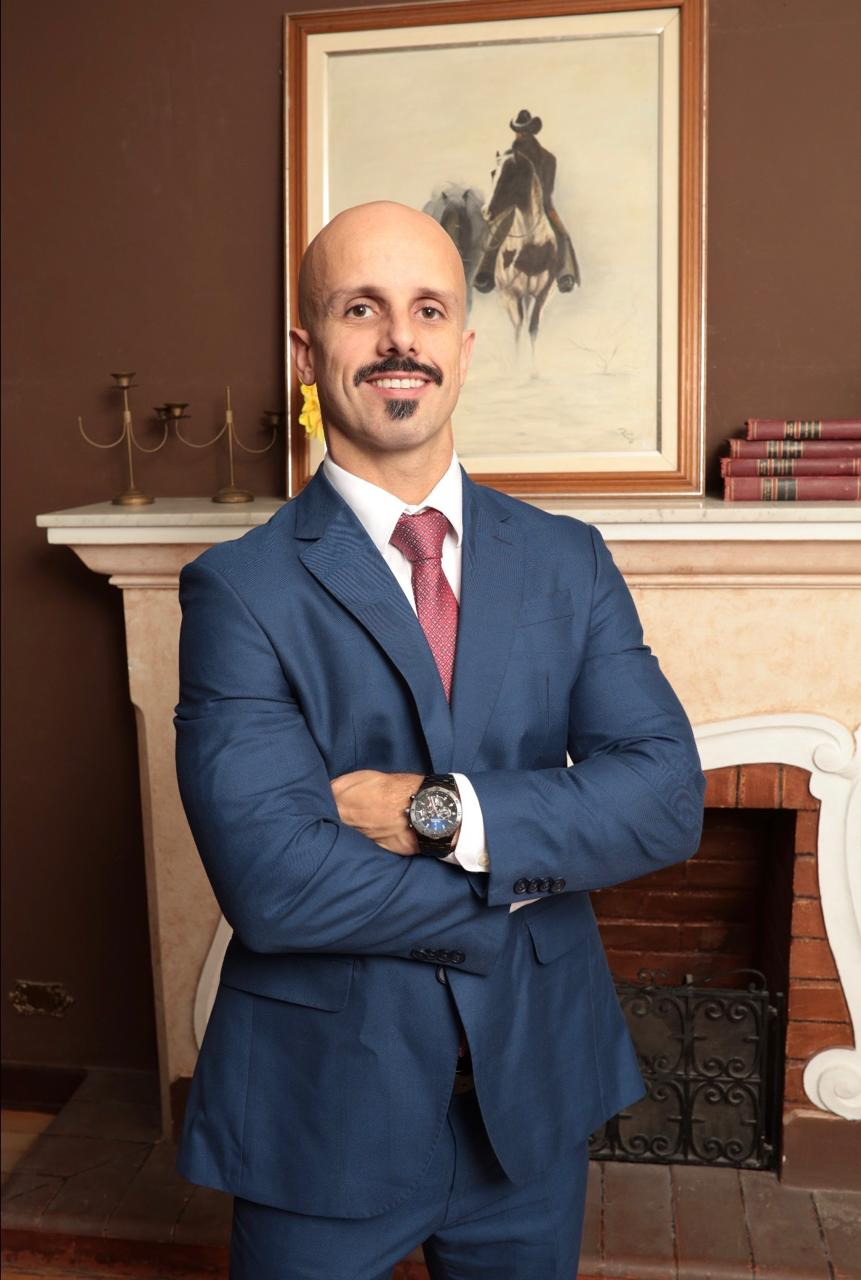
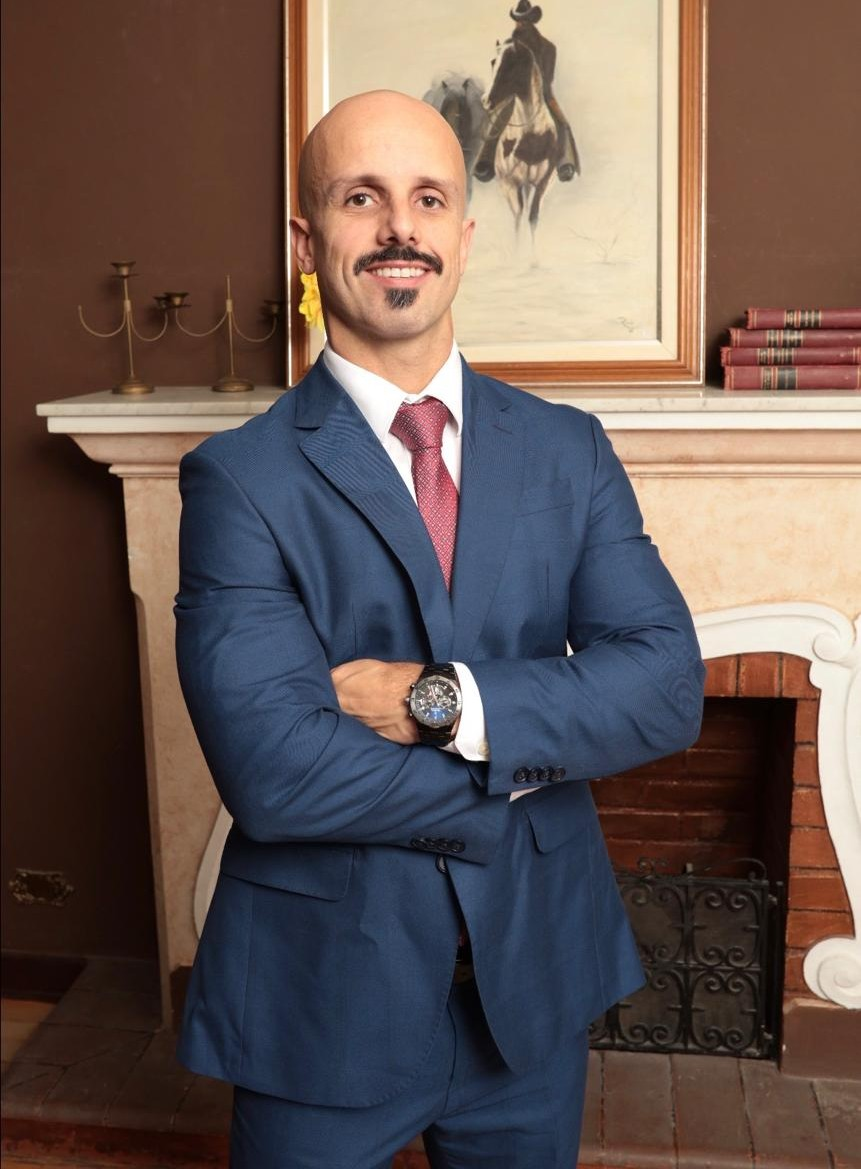
Melhorando a performance da lading page

diff --git a/index.html b/index.html
@@ -5,6 +5,24 @@
   <meta charset="UTF-8">
   <meta name="viewport" content="width=device-width, initial-scale=1.0">
   <title>Jales e Ramos Advogados</title>
+  <meta name="description"
+    content="Escritório de advocacia trabalhista em São Paulo. Jales e Ramos Advogados atua na defesa do trabalhador com atendimento estratégico, escuta qualificada e agendamento online.">
+  <meta name="robots" content="index,follow">
+  <meta name="theme-color" content="#192b24">
+  <link rel="canonical" href="https://kyuri887.github.io/Lading-page-lawer/">
+  <meta property="og:type" content="website">
+  <meta property="og:locale" content="pt_BR">
+  <meta property="og:title" content="Jales e Ramos Advogados">
+  <meta property="og:description"
+    content="Advocacia trabalhista em São Paulo com foco na defesa do trabalhador, orientação estratégica e atendimento online.">
+  <meta property="og:url" content="https://kyuri887.github.io/Lading-page-lawer/">
+  <meta property="og:image" content="https://kyuri887.github.io/Lading-page-lawer/Logo%20part1.png">
+  <meta name="twitter:card" content="summary_large_image">
+  <meta name="twitter:title" content="Jales e Ramos Advogados">
+  <meta name="twitter:description"
+    content="Escritório de advocacia trabalhista em São Paulo com atendimento online e foco na defesa do trabalhador.">
+  <meta name="twitter:image" content="https://kyuri887.github.io/Lading-page-lawer/Logo%20part1.png">
+  <link rel="icon" type="image/png" href="Logo part1.png">
   <link rel="preconnect" href="https://fonts.googleapis.com">
   <link rel="preconnect" href="https://fonts.gstatic.com" crossorigin>
   <link
@@ -12,13 +30,39 @@
     rel="stylesheet">
   <link href="https://assets.calendly.com/assets/external/widget.css" rel="stylesheet">
   <link rel="stylesheet" href="styles.css?v=20260424-29">
+  <script type="application/ld+json">
+    {
+      "@context": "https://schema.org",
+      "@type": "LegalService",
+      "name": "Jales e Ramos Advogados",
+      "url": "https://kyuri887.github.io/Lading-page-lawer/",
+      "image": "https://kyuri887.github.io/Lading-page-lawer/Logo%20part1.png",
+      "telephone": "+55 11 96083-1680",
+      "address": {
+        "@type": "PostalAddress",
+        "streetAddress": "Av. Paulista, 1636 - Conjunto 1504",
+        "addressLocality": "São Paulo",
+        "addressRegion": "SP",
+        "postalCode": "01310-200",
+        "addressCountry": "BR"
+      },
+      "areaServed": "Brasil",
+      "sameAs": [
+        "https://www.linkedin.com/in/edson-fernandes-a33721149/",
+        "https://www.linkedin.com/in/ramon-ramos-b466a4280/"
+      ]
+    }
+  </script>
 </head>
 
 <body>
-  <section class="hero" id="home">
+  <a class="skip-link" href="#conteudo">Pular para o conteúdo principal</a>
+  <main id="conteudo">
+    <section class="hero" id="home">
     <header class="hero__header">
       <a class="hero__brand" href="#home" aria-label="Jales e Ramos Advogados">
-        <img src="Logo part1.png" alt="Logo Jales e Ramos Advogados">
+        <img src="Logo part1.png" alt="Logo Jales e Ramos Advogados" width="1300" height="361" fetchpriority="high"
+          decoding="async">
       </a>
 
       <!-- Menu desktop (visível apenas em telas ≥ 1024px) -->
@@ -46,7 +90,8 @@
     <!-- Drawer lateral mobile/tablet -->
     <nav class="mobile-drawer" id="mobile-drawer" aria-label="Menu de navegação mobile" aria-hidden="true">
       <div class="mobile-drawer__header">
-        <img src="Logo part1.png" alt="Jales e Ramos Advogados" class="mobile-drawer__logo">
+        <img src="Logo part1.png" alt="Jales e Ramos Advogados" class="mobile-drawer__logo" width="1300" height="361"
+          decoding="async">
         <button class="mobile-drawer__close" id="drawer-close-btn" type="button" aria-label="Fechar menu">
           <span></span>
           <span></span>
@@ -71,9 +116,9 @@
         Nossa missão é ajudar cada trabalhador para que seja ouvido, respeitado e tenha seus direitos assegurados —
         porque justiça não deve ser privilégio, e sim um direito de todos.
       </p>
-      <a class="hero__cta" href="#sobre">SAIBA MAIS</a>
+      <a class="hero__cta" href="#sobre" aria-label="Saiba mais sobre o escritório">SAIBA MAIS</a>
     </div>
-  </section>
+    </section>
 
   <section class="about-history" id="sobre">
     <div class="about-history__watermark" aria-hidden="true"></div>
@@ -102,7 +147,7 @@
         <figure class="lawyer-profile__media lawyer-profile__media--from-right">
           <!-- Imagem do advogado 1: substitua o src abaixo pelo arquivo correto -->
           <img class="lawyer-profile__photo lawyer-profile__photo--from-right" src="asset/Edson_foto_oficial.jpeg"
-            alt="Retrato de Edson Jales">
+            alt="Retrato de Edson Jales" width="861" height="1280" loading="lazy" decoding="async">
         </figure>
       </article>
 
@@ -110,7 +155,7 @@
         <figure class="lawyer-profile__media lawyer-profile__media--from-left">
           <!-- Imagem do advogado 2: substitua o src abaixo pelo arquivo correto -->
           <img class="lawyer-profile__photo lawyer-profile__photo--from-left" src="asset/Ramom Ramos foto oficial.jpeg"
-            alt="Retrato de Ramon Ramos">
+            alt="Retrato de Ramon Ramos" width="1066" height="1456" loading="lazy" decoding="async">
         </figure>
 
         <div class="lawyer-profile__content">
@@ -721,7 +766,8 @@
           <a class="contact-info__item"
             href="https://maps.google.com/?q=Av.+Paulista,+1636+-+Conjunto+1504,+Cerqueira+César,+São+Paulo+-+SP,+01310-200"
             target="_blank" rel="noopener noreferrer">
-            <img class="contact-info__icon" src="asset/icone local.png" alt="" aria-hidden="true">
+            <img class="contact-info__icon" src="asset/icone local.png" alt="" aria-hidden="true" width="1366"
+              height="1468" loading="lazy" decoding="async">
             <p>
               <span>Av. Paulista, 1.636 – Conjunto 1.504</span>
               <span>Cerqueira César — São Paulo/SP CEP 01310-200</span>
@@ -729,19 +775,22 @@
           </a>
 
           <a class="contact-info__item" href="https://wa.me/5511960831680" target="_blank" rel="noopener noreferrer">
-            <img class="contact-info__icon" src="asset/icone whatsapp.png" alt="" aria-hidden="true">
+            <img class="contact-info__icon" src="asset/icone whatsapp.png" alt="" aria-hidden="true" width="1366"
+              height="1416" loading="lazy" decoding="async">
             <span>(11) 96083-1680</span>
           </a>
 
           <a class="contact-info__item" href="https://www.linkedin.com/in/edson-fernandes-a33721149/" target="_blank"
             rel="noopener noreferrer">
-            <img class="contact-info__icon" src="asset/icone linkedin.png" alt="" aria-hidden="true">
+            <img class="contact-info__icon" src="asset/icone linkedin.png" alt="" aria-hidden="true" width="1366"
+              height="1181" loading="lazy" decoding="async">
             <span>Edson Fernandes</span>
           </a>
 
           <a class="contact-info__item" href="https://www.linkedin.com/in/ramon-ramos-b466a4280/" target="_blank"
             rel="noopener noreferrer">
-            <img class="contact-info__icon" src="asset/icone linkedin.png" alt="" aria-hidden="true">
+            <img class="contact-info__icon" src="asset/icone linkedin.png" alt="" aria-hidden="true" width="1366"
+              height="1181" loading="lazy" decoding="async">
             <span>Ramon Ramos</span>
           </a>
         </address>
@@ -787,35 +836,39 @@
           <p class="calendly-popup-card__copy">
             Faça uma simulação rápida e entenda os seus direitos trabalhistas antes da nossa reunião.
           </p>
-          <a class="calendly-popup-card__button" href="#" target="_blank" rel="noopener noreferrer">
-            Calcular
-          </a>
+          <button class="calendly-popup-card__button calendly-popup-card__button--disabled" type="button" disabled
+            aria-disabled="true">
+            CALCULADORA EM BREVE
+          </button>
         </div>
       </div>
 
-      <a class="contact-info__calculator" href="#" target="_blank" rel="noopener noreferrer">
-        CALCULADORA DE VERBAS TRABALHISTAS
-      </a>
+      <button class="contact-info__calculator contact-info__calculator--disabled" type="button" disabled
+        aria-disabled="true">
+        CALCULADORA DE VERBAS TRABALHISTAS EM BREVE
+      </button>
     </div>
   </section>
 
-  <section class="site-copyright">
+  </main>
+
+  <footer class="site-copyright">
     <div class="site-copyright__inner">
       <p>Jales e Ramos Advogados — São Paulo/SP — Defendendo seus direitos trabalhistas com seriedade e compromisso. ©
         2026 Todos os direitos reservados.</p>
     </div>
-  </section>
+  </footer>
 
   <a class="floating-whatsapp"
     href="https://wa.me/5511960831680?text=Ol%C3%A1%2C%20gostaria%20de%20falar%20com%20a%20advocacia." target="_blank"
     rel="noopener noreferrer" aria-label="Entrar em contato pelo WhatsApp">
-    <img src="asset/icone whatsapp.png" alt="" aria-hidden="true">
+    <img src="asset/icone whatsapp.png" alt="" aria-hidden="true" width="1366" height="1416" decoding="async">
   </a>
 
-  <script src="https://cdn.jsdelivr.net/npm/gsap@3.12.5/dist/gsap.min.js"></script>
-  <script src="https://cdn.jsdelivr.net/npm/gsap@3.12.5/dist/ScrollTrigger.min.js"></script>
-  <script src="https://assets.calendly.com/assets/external/widget.js" type="text/javascript" async></script>
-  <script src="script.js?v=20260424-27"></script>
+  <script src="https://cdn.jsdelivr.net/npm/gsap@3.12.5/dist/gsap.min.js" defer></script>
+  <script src="https://cdn.jsdelivr.net/npm/gsap@3.12.5/dist/ScrollTrigger.min.js" defer></script>
+  <script src="https://assets.calendly.com/assets/external/widget.js" async></script>
+  <script src="script.js?v=20260424-27" defer></script>
 </body>
 
 </html>

diff --git a/styles.css b/styles.css
@@ -27,6 +27,36 @@ body {
   color: var(--cream);
 }
 
+main {
+  display: block;
+}
+
+section[id] {
+  scroll-margin-top: 96px;
+}
+
+.skip-link {
+  position: absolute;
+  top: 16px;
+  left: 16px;
+  z-index: 100;
+  padding: 12px 16px;
+  border-radius: 8px;
+  background: #eeead6;
+  color: #192b24;
+  font-family: "Inter", sans-serif;
+  font-size: 14px;
+  font-weight: 600;
+  transform: translateY(-180%);
+  transition: transform 180ms ease;
+}
+
+.skip-link:focus {
+  transform: translateY(0);
+  outline: 2px solid #cdad7d;
+  outline-offset: 3px;
+}
+
 body::-webkit-scrollbar {
   display: none;
   width: 0;
@@ -659,9 +689,7 @@ a {
 .lawyer-profile__media img {
   display: block;
   width: 100%;
-  aspect-ratio: 0.82;
-  object-fit: cover;
-  object-position: center;
+  height: auto;
   box-shadow: 0 24px 54px rgba(17, 17, 17, 0.12);
 }
 
@@ -1131,7 +1159,6 @@ a {
   align-items: baseline;
   gap: 9px;
   min-width: 0;
-  cursor: pointer;
 }
 
 .faq-item__question {
@@ -1150,8 +1177,8 @@ a {
   display: inline-flex;
   align-items: center;
   justify-content: center;
-  width: 22px;
-  height: 22px;
+  width: 44px;
+  height: 44px;
   margin: 0;
   padding: 0;
   border: 0;
@@ -1163,15 +1190,15 @@ a {
   transition: transform 280ms ease, opacity 220ms ease;
 }
 
-.faq-item__question-row:hover .faq-item__button,
-.faq-item__question-row:focus-within .faq-item__button {
+.faq-item:hover .faq-item__button,
+.faq-item:focus-within .faq-item__button {
   opacity: 0.72;
 }
 
 .faq-item__button img {
   display: block;
-  width: 18px;
-  height: 18px;
+  width: 20px;
+  height: 20px;
   object-fit: contain;
 }
 
@@ -1361,6 +1388,21 @@ a.contact-info__item:focus-visible .contact-info__icon {
   cursor: pointer;
   box-shadow: 0 14px 24px rgba(0, 0, 0, 0.18);
   transition: transform 200ms ease, opacity 200ms ease;
+}
+
+.contact-info__calculator--disabled,
+.calendly-popup-card__button--disabled {
+  opacity: 0.72;
+  cursor: not-allowed;
+  box-shadow: none;
+}
+
+.contact-info__calculator--disabled:hover,
+.contact-info__calculator--disabled:focus-visible,
+.calendly-popup-card__button--disabled:hover,
+.calendly-popup-card__button--disabled:focus-visible {
+  opacity: 0.72;
+  transform: none;
 }
 
 .contact-info__calculator {
@@ -2172,7 +2214,7 @@ a.contact-info__item:focus-visible .contact-info__icon {
   }
 
   .lawyer-profile__media img {
-    aspect-ratio: 0.78;
+    height: auto;
   }
 
   .lawyer-profile__media,
@@ -2319,8 +2361,8 @@ a.contact-info__item:focus-visible .contact-info__icon {
   }
 
   .faq-item__button {
-    width: 24px;
-    height: 24px;
+    width: 44px;
+    height: 44px;
     transform: translateY(1px);
   }
 

diff --git a/script.js b/script.js
@@ -507,16 +507,22 @@
 
   const closeItem = (item) => {
     const button = item.querySelector(".faq-item__button");
+    const answer = item.querySelector(".faq-item__answer");
 
     item.classList.remove("is-open");
 
     if (button) {
       button.setAttribute("aria-expanded", "false");
     }
+
+    if (answer) {
+      answer.hidden = true;
+    }
   };
 
   const openItem = (item) => {
     const button = item.querySelector(".faq-item__button");
+    const answer = item.querySelector(".faq-item__answer");
 
     faqItems.forEach((currentItem) => {
       if (currentItem !== item) {
@@ -529,17 +535,31 @@
     if (button) {
       button.setAttribute("aria-expanded", "true");
     }
+
+    if (answer) {
+      answer.hidden = false;
+    }
   };
 
   faqItems.forEach((item) => {
-    const questionRow = item.querySelector(".faq-item__question-row");
     const button = item.querySelector(".faq-item__button");
+    const answer = item.querySelector(".faq-item__answer");
+    const question = item.querySelector(".faq-item__question");
 
-    if (!questionRow || !button) {
+    if (!button || !answer || !question) {
       return;
     }
 
-    questionRow.addEventListener("click", () => {
+    if (!button.id) {
+      button.id = `faq-toggle-${answer.id || Math.random().toString(36).slice(2, 8)}`;
+    }
+
+    button.setAttribute("aria-label", `Alternar resposta: ${question.textContent.trim()}`);
+    answer.setAttribute("role", "region");
+    answer.setAttribute("aria-labelledby", button.id);
+    answer.hidden = true;
+
+    button.addEventListener("click", () => {
       if (item.classList.contains("is-open")) {
         closeItem(item);
         return;
